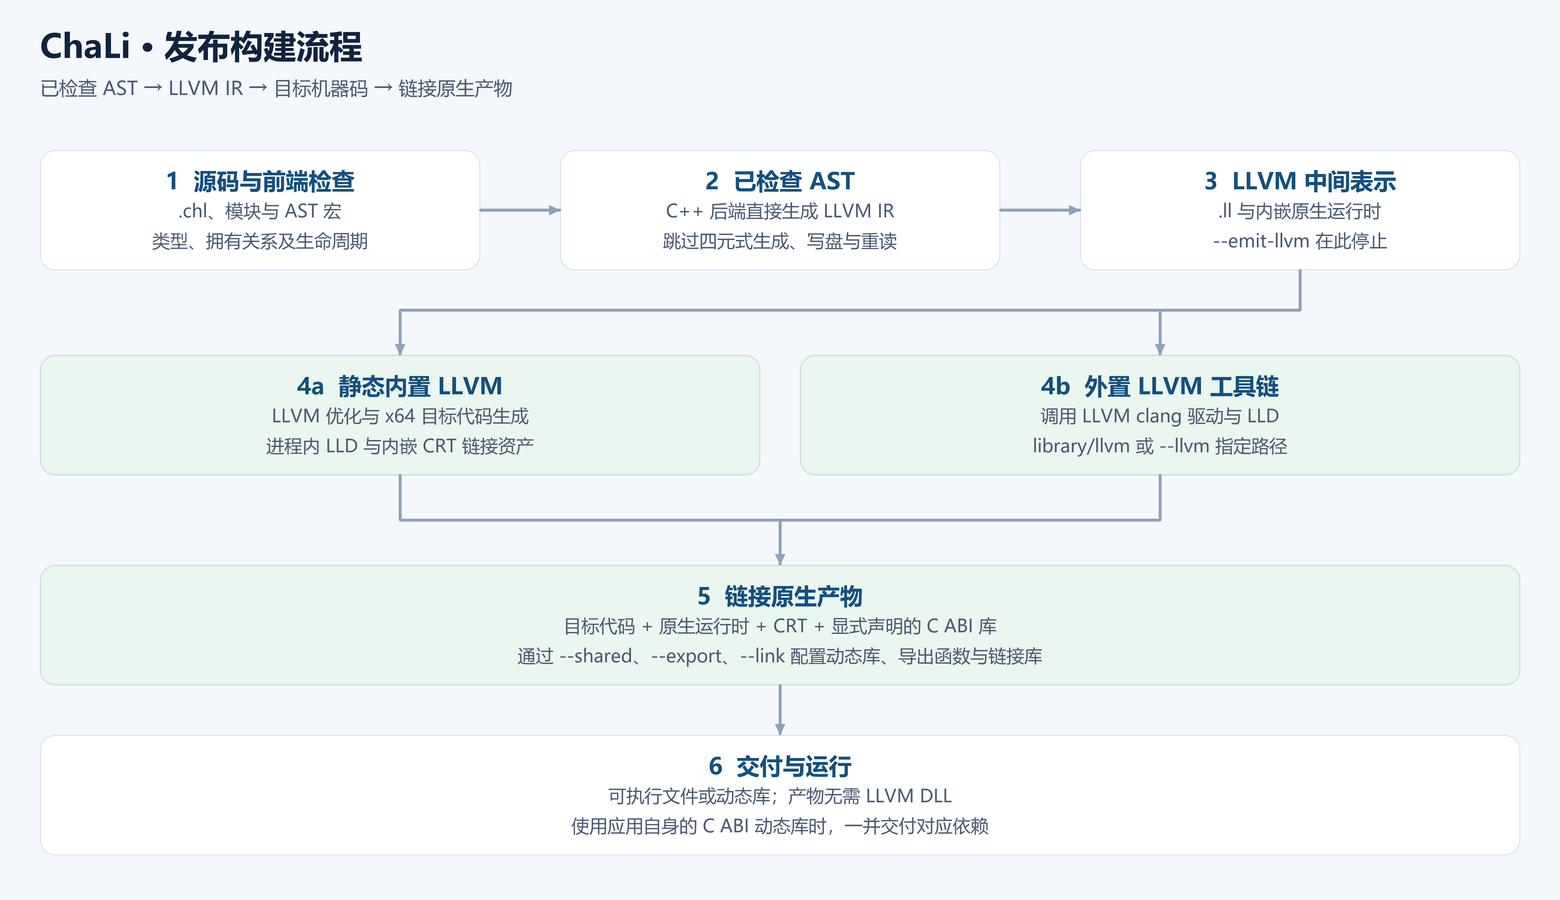
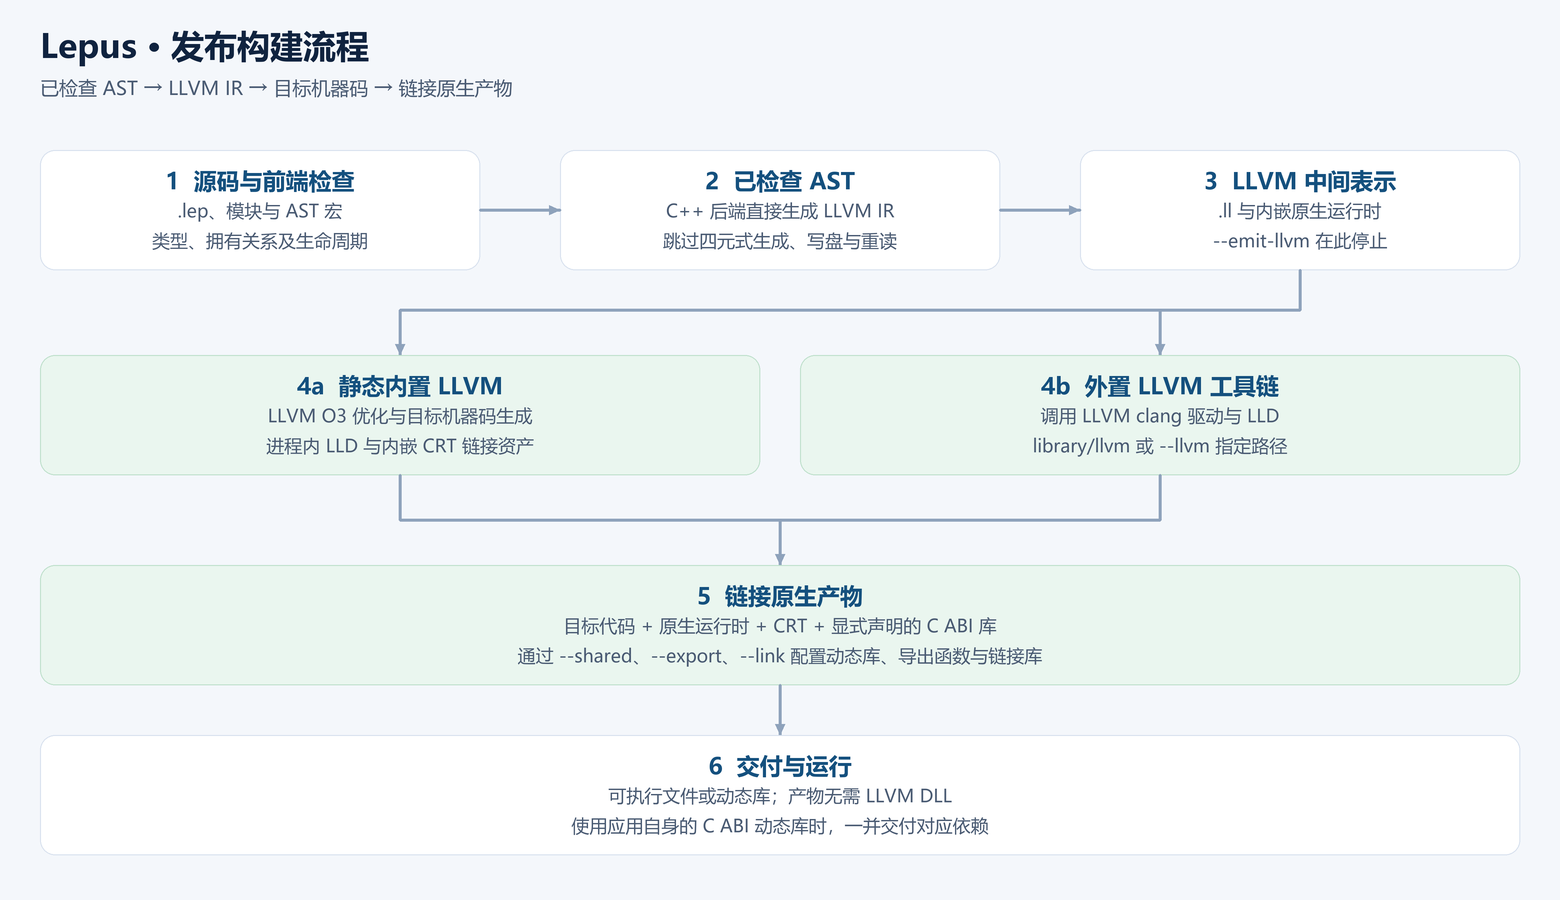
宏语法定为 $match (值) { 类别 => { ... } _ => { ... } } 与 $if (片段 is 类别)
删除之前的草案，只保留最终确定的两套写法：

- $match (值) { ident => { ... } expr => { ... } _ => { ... } }：
  分支按书写顺序尝试，_ => { ... } 是兜底。
- $if (片段 is 类别) { ... } $elif (条件) { ... } $else { ... }：
  片段 is 类别 可在编译期条件里与 &&、||、! 组合。

删除的旧写法：
- $match (值 is 类别) { ... } $else (is 类别) { ... }
- $match_other (类别)（上一轮新增，本轮并入 类别 => 分支）

实现要点：
- lepus_token.gram 移除 MACRO_MATCH_OTHER。
- lepus.gram 新增 macro_match_branch（类别 => / _ =>）；片段 is 类别
  以 %prec FN 进入 cast_expr，is 不再充当变量名，消除归约冲突。
- 新增 MNode::MacroCategoryTest 与 M_MacroCategoryTest；宏展开期由
  FoldMacroCategoryTests 把分类折叠成编译期布尔，再走原有常量求值。

工具与文档：
- VS Code 高亮、书稿 LaTeX 高亮、LSP 补全改为新写法。
- doc/04、doc/25、书稿第 22 章及英文对应页同步改写。
- 样例 macro_controls、macro_braced_templates、macro_frankenstein 改用新写法。
- 重新生成 lepus-compilation/lepus-aot 中英四张流程图，品牌与前端来源
  更正为 Lepus 与 lepus.gram，内置 LLVM 优化描述改为目标机器码。
- 重新生成内嵌书稿与标准库资产。

Changed region(s): [[0.0308, 0.0311, 0.2462, 0.0933], [0.1538, 0.4356, 0.3385, 0.4978], [0.1231, 0.2178, 0.2154, 0.2489]]

diff --git a/vscode/test/smoke.js b/vscode/test/smoke.js
@@ -111,7 +111,7 @@ function testLepusFolding() {
   check('折叠：缺右花括号也能折到末尾', half.length === 1 && half[0].end === 1);
 
   // 词面要完整，单行开合不折，多余的收尾不炸。
-  const branches = folding.planFoldingRanges(['$macro A(x) -> {', '$match (x is expr) {', '$regex (x is "x") {', '1', '}', '}', '}']);
+  const branches = folding.planFoldingRanges(['$macro A(x) -> {', '$match (x) {', '$regex (x is "x") {', '1', '}', '}', '}']);
   check('折叠：语法与正则分支嵌套', branches.length === 3 && branches[1].end === 5 && branches[2].end === 4);
   check('折叠：$match_if 不是指令', folding.planFoldingRanges(['$match_if kind', 'x', '}']).length === 0);
   check('折叠：同一行开合不折', folding.planFoldingRanges(['$macro A() -> { 1 }']).length === 0);

diff --git a/tests/lepus_macro_branches.py b/tests/lepus_macro_branches.py
@@ -15,21 +15,23 @@ def main():
     parser.add_argument("--default", action="store_true", help="使用含标准库的默认编译路径")
     options = parser.parse_args()
     compiler = options.lepus.resolve()
-    choose = '$match (A is ident) {\n11\n} $match_other (expr) {\n22\n} $match_other (type) {\n33\n} $match_other (block) {\n44\n} $match_other (stmt) {\n55\n} $else {\n66\n}'
+    choose = '$match (A) {\nident => {\n11\n}\nexpr => {\n22\n}\ntype => {\n33\n}\nblock => {\n44\n}\nstmt => {\n55\n}\n_ => {\n66\n}\n}'
     cases = [
         ("ident", choose, "notDeclared", 11),
         ("expr", choose, "1 + 2", 22),
         ("type", choose, "int64", 33),
         ("unknown_generic_type", choose, "Unknown<int64, int32, int8>", 33),
         ("lowercase_generic_type", choose, "unknown<int64>", 33),
-        ("block", '$match (A is block) {\n44\n} $else {\n0\n}', "{ int64 value = 1; }", 44),
+        ('block', '$match (A) {\nblock => {\n44\n}\n_ => {\n0\n}\n}', '{ int64 value = 1; }', 44),
         ("stmt", choose, "return 0;", 55),
         ("partial_expr", choose, "1 +", 66),
-        ("full_ident", '$match (A is ident) {\n1\n} $else {\n0\n}', "a + b", 0),
-        ("branch_order", '$match (A is expr) {\n1\n} $match_other (ident) {\n2\n}', "missing", 1),
-        ("ident_category", '$match (A is ident) {\n1\n} $match_other (expr) {\n2\n}', "a + b", 2),
-        ("inactive_semantics", '$match (A is ident) {\n1\n} $else {\nmissingFunction();\nint64 invalid = unknown;\n0\n}', "anything", 1),
-        ("inactive_closure", '$match (A is ident) {\n1\n} $else {\nlet unused = fn(int64 x) { missingFunction(); return x; };\n0\n}', "anything", 1),
+        ('full_ident', '$match (A) {\nident => {\n1\n}\n_ => {\n0\n}\n}', 'a + b', 0),
+        ('branch_order', '$match (A) {\nexpr => {\n1\n}\nident => {\n2\n}\n}', 'missing', 1),
+        ('ident_category', '$match (A) {\nident => {\n1\n}\nexpr => {\n2\n}\n}', 'a + b', 2),
+        ('inactive_semantics', '$match (A) {\nident => {\n1\n}\n_ => {\nmissingFunction();\nint64 invalid = unknown;\n0\n}\n}', 'anything', 1),
+        ('inactive_closure', '$match (A) {\nident => {\n1\n}\n_ => {\nlet unused = fn(int64 x) { missingFunction(); return x; };\n0\n}\n}', 'anything', 1),
+        ('if_category', '$if (A is ident) {\n1\n} $elif (A is expr) {\n2\n} $else {\n0\n}', '1', 2),
+        ('if_category_and_flag', '$if (A is ident && false) {\n1\n} $else {\n0\n}', '1', 0),
         ("regex_digits", '$regex (A is "[0-9]+") {\n1\n} $else {\n0\n}', "  123  ", 1),
         ("regex_full", '$regex (A is "[0-9]+") {\n1\n} $else {\n0\n}', "abc123", 0),
         ("regex_quotes", '$regex (A is "[0-9]+") {\n1\n} $else {\n0\n}', '"123"', 0),
@@ -56,10 +58,10 @@ def main():
             source = "$macro CHOOSE(A) -> {\n" + body + "\n}\nvoid main() { int64 result = $CHOOSE(" + argument + "); if (result == " + str(expected) + ") { return; } let __boom = 1 / (result - result); }"
             result = execute(name, source)
             assert result.returncode == 0 and not result.stderr, (name, result.returncode, result.stdout, result.stderr)
-        source = '$macro EMIT(A) -> {\n$match (A is stmt) {\nA;\n}\n}\nvoid main() { $EMIT(return;); }'
+        source = '$macro EMIT(A) -> {\n$match (A) {\nstmt => {\nA;\n}\n}\n}\nvoid main() { $EMIT(return;); }'
         result = execute("emit_statement", source)
         assert result.returncode == 0 and not result.stderr, result.stderr
-        source = '$macro EMPTY(A) -> {\n$match (A is stmt) {\nA;\n}\n}\nvoid main() { $EMPTY(1 +); return; }'
+        source = '$macro EMPTY(A) -> {\n$match (A) {\nstmt => {\nA;\n}\n}\n}\nvoid main() { $EMPTY(1 +); return; }'
         result = execute("no_match", source)
         assert result.returncode == 0 and not result.stderr, result.stderr
         result = execute("invalid_regex", '$macro BAD(A) -> {\n$regex (A is "[") {\n1\n} $else {\n0\n}\n}\nvoid main() { let __boom = $BAD(123); }')

diff --git a/source/semantics/macro_controls.cpp b/source/semantics/macro_controls.cpp
@@ -514,6 +514,66 @@ bool CheckMacroLoopSyntax(int id, std::size_t depth, bool inLoop, bool &ordered,
 }
 
 /**
+ * @brief 把 `$if` 条件里的 `片段 is 类别` 折叠成编译期布尔常量。
+ *
+ * 片段实参在展开期保留六类完整语法候选；这里按类别取对应候选是否成立，
+ * 结果替换为 Bool 节点，之后与普通编译期常量一起参与 `&&`、`||`、`!` 求值。
+ * @param id 条件子树根节点。
+ * @param inputs 形参名到实参节点的映射。
+ * @param depth 当前遍历深度。
+ * @param error 接收失败原因。
+ * @return 折叠成功时返回真。
+ */
+bool FoldMacroCategoryTests(int id, const std::map<std::string, int> &inputs, std::size_t depth, std::string &error)
+{
+    if (id < 0) return true;
+    if (depth >= 256)
+    {
+        error = "宏编译期条件嵌套过深";
+        return false;
+    }
+    auto &node = g_nodes[id];
+    if (node.kind == MNode::MacroCategoryTest)
+    {
+        const std::string name(node.s.data(), node.s.size());
+        const auto found = inputs.find(name);
+        if (found == inputs.end())
+        {
+            error = "宏编译期分类引用了不存在的形参：" + name;
+            return false;
+        }
+        const auto &argument = N(found->second);
+        if (argument.kind != MNode::MacroArgument || argument.kids.size() != lepus_macro::FragmentAlternativeCount)
+        {
+            error = "$if 的语法分类只能用在片段实参上：" + name;
+            return false;
+        }
+        const std::string category(node.s2.data(), node.s2.size());
+        const int index = category == "expr"    ? 0 :
+                          category == "ident"   ? 1 :
+                          category == "type"    ? 2 :
+                          category == "block"   ? 3 :
+                          category == "stmt"    ? 4 :
+                          category == "pattern" ? 5 :
+                                                  -1;
+        if (index < 0)
+        {
+            error = "不支持的宏片段分类：" + category;
+            return false;
+        }
+        node.kind = MNode::Bool;
+        node.i = argument.kids[static_cast<std::size_t>(index)] >= 0 ? 1 : 0;
+        node.s.clear();
+        node.s2.clear();
+        node.kids.clear();
+        return true;
+    }
+    for (const int child : node.kids)
+        if (!FoldMacroCategoryTests(child, inputs, depth + 1, error)) return false;
+    return true;
+}
+
+/**
  * @brief 在卫生绑定前处理字段循环、常量分支和编译期诊断，仅构造普通 AST。
  * @param root 已替换泛型类型的独立模板。
  * @param inputs 只读宏实参，条件只允许使用其中的常量表达式。
@@ -929,6 +989,7 @@ bool PrepareMacroControlsWithLocals(int root, const std::map<std::string, int> &
         if (node.kind == MNode::MacroCompileIf)
         {
             if (!visit(node.kids[0], depth + 1, true)) return false;
+            if (!FoldMacroCategoryTests(node.kids[0], activeInputs, depth, error)) return false;
             MConstant value;
             if (!EvaluateConstant(node.kids[0], &value) || value.kind != MConstant::Boolean) return Fail("$if 条件必须是编译期 bool 常量");
             const int selected = node.kids[value.integer ? 1 : 2];

diff --git a/tests/macro_parser.cpp b/tests/macro_parser.cpp
@@ -47,23 +47,21 @@ int main()
     const auto genericDefinition = M_ParsedNode(M_ParsedNode(root).kids[0]);
     const auto generics = M_ParsedNode(genericDefinition.kids[2]).kids;
     if (generics.size() != 1 || M_ParsedNode(generics[0]).kind != MNode::MacroGeneric || M_ParsedNode(generics[0]).s != "T" || M_ParsedNode(generics[0]).s2 != "a") return 12;
-    for (const char *category : { "expr", "ident", "type", "block", "stmt" })
-    {
-        const auto source = Memory::String("$macro SELECT(A) -> {\n$match (A is ") + category + ") {\n1\n} $match_other (ident) {\n2\n} $else {\n3\n}\n}\nint32 main() { return 0; }\n";
-        if (!parse(source, root)) return 13;
-        const auto &definitionNode = M_ParsedNode(M_ParsedNode(root).kids[0]);
-        const auto &templateNode = M_ParsedNode(definitionNode.kids[1]);
-        const auto &match = M_ParsedNode(M_ParsedNode(templateNode.kids[0]).kids[0]);
-        if (match.kind != MNode::MacroMatch || match.s != "A") return 14;
-        const auto branches = M_ParsedNode(match.kids[0]).kids;
-        if (branches.size() != 3 || M_ParsedNode(branches[0]).s != category || M_ParsedNode(branches[1]).s != "ident" || !M_ParsedNode(branches[2]).s.empty()) return 15;
-    }
+    // `$match` 的分支写成 `类别 => { ... }`，`_ => { ... }` 是兜底。
+    const auto matchSource = Memory::String("$macro SELECT(A) -> {\n$match (A) {\nident => {\n1\n}\nexpr => {\n2\n}\n_ => {\n3\n}\n}\n}\nint32 main() { return 0; }\n");
+    if (!parse(matchSource, root)) return 13;
+    const auto &matchDefinition = M_ParsedNode(M_ParsedNode(root).kids[0]);
+    const auto &matchTemplate = M_ParsedNode(matchDefinition.kids[1]);
+    const auto &match = M_ParsedNode(M_ParsedNode(matchTemplate.kids[0]).kids[0]);
+    if (match.kind != MNode::MacroMatch || match.s != "A") return 14;
+    const auto &matchBranches = M_ParsedNode(match.kids[0]).kids;
+    if (matchBranches.size() != 3 || M_ParsedNode(matchBranches[0]).s != "ident" || M_ParsedNode(matchBranches[1]).s != "expr" || !M_ParsedNode(matchBranches[2]).s.empty()) return 15;
     if (!parse("$macro DIGITS(A) -> {\n$regex (A is \"[0-9]+\") {\n1\n} $else {\n0\n}\n}\nint32 main() { return 0; }\n", root)) return 16;
     const auto &regexDefinition = M_ParsedNode(M_ParsedNode(root).kids[0]);
     const auto &regexTemplate = M_ParsedNode(regexDefinition.kids[1]);
     const auto &regex = M_ParsedNode(M_ParsedNode(regexTemplate.kids[0]).kids[0]);
     if (regex.kind != MNode::MacroRegex || regex.s != "A" || regex.s2 != "[0-9]+" || regex.kids[1] < 0) return 17;
-    Memory::String unknown = "$macro BAD(A) -> {\n$match (A is token) {\n1\n}\n}\n";
+    Memory::String unknown = "$macro BAD(A) -> {\n$match (A) {\ntoken => {\n1\n}\n}\n}\n";
     lepus_macro::markHeaderBoundaries(unknown);
     lepus::Engine unknownCategory;
     if (unknownCategory.runText(unknown, &root) == lepus::Status::Ok) return 18;

diff --git a/doc/book/latex/lepus_language.tex b/doc/book/latex/lepus_language.tex
@@ -4,7 +4,7 @@
   alsoletter={\$\#@\%},
   morekeywords={_,__rawAlign,__rawSize,__typeTag,break,cast,const,continue,copy,defer,drop,elif,else,enum,export,fn,for,if,impl,import,in,inline,interface,let,loop,match,module,move,mut,new,null,opcode,return,scope,static,struct,type,unsafe,while,yield},
   morekeywords=[2]{Any,Closeable,Copy,Drop,Error,Fail,List,Map,None,Ok,Option,Result,Set,String,Value,bool,char,float32,float64,int16,int32,int64,int8,self,uint16,uint32,uint64,uint8,void},
-  morekeywords=[3]{\#CopyOnly,\#MoveOnly,\#NonCopyable,\#abi,\#borrow,\#export,\#res,\#ret,\#static,$argc,$break,$compile_assert,$compile_error,$concat,$continue,$count,$elif,$else,$else_if,$fields,$file,$for,$if,$implement,$interfaces,$let,$line,$loop,$macro,$match,$match_other,$member,$methods,$module,$regex,$replace,$set,$stringify,$typecheck,$variants,$while,@annotation},
+  morekeywords=[3]{\#CopyOnly,\#MoveOnly,\#NonCopyable,\#abi,\#borrow,\#export,\#res,\#ret,\#static,$argc,$break,$compile_assert,$compile_error,$concat,$continue,$count,$elif,$else,$else_if,$fields,$file,$for,$if,$implement,$interfaces,$let,$line,$loop,$macro,$match,$member,$methods,$module,$regex,$replace,$set,$stringify,$typecheck,$variants,$while,@annotation},
   morekeywords=[4]{block,expr,false,ident,is,item,member,pattern,stmt,true,value},
   morecomment=[l]{//},
   morecomment=[s]{/*}{*/},

diff --git a/tests/lepus_macro_groups.py b/tests/lepus_macro_groups.py
@@ -21,7 +21,7 @@ def main():
         ("empty_groups", '$macro A[](){} -> {\n0\n}\nvoid main() { let __boom = $A[](){}; }', None),
         ("variadic_empty", '$macro ADD(...xs) -> {\n$for (x in xs) {\nx;\n}\n0\n}\nvoid main() { let __boom = $ADD(); }', None),
         ("for_hygiene", '$macro ADD(mut &total, ...xs) -> {\n$for (x in xs) {\nint64 temp = x; total += temp;\n}\n}\nvoid main() { int64 temp = 100; int64 total = 0; $ADD(total, 1, 2, 3); let __boom = total + temp - 106; }', None),
-        ("for_match", '$macro ADD(mut &total, ...xs) -> {\n$for (x in xs) {\n$match (x is expr) {\ntotal += x;\n}\n}\n}\nvoid main() { int64 total = 0; $ADD(total, 1, 2); let __boom = total - 3; }', None),
+        ("for_match", '$macro ADD(mut &total, ...xs) -> {\n$for (x in xs) {\n$match (x) {\nexpr => {\ntotal += x;\n}\n}\n}\n}\nvoid main() { int64 total = 0; $ADD(total, 1, 2); let __boom = total - 3; }', None),
         ("variadic_not_last", '$macro A(...xs, y) -> {\n0\n}\nvoid main() { return; }', "末尾"),
         ("for_non_variadic", '$macro A(xs) -> {\n$for (x in xs) {\nx;\n}\n}\nvoid main() { $A(1); return; }', "变长"),
         ("source_line", '$macro LINE -> {\n$line\n}\nvoid main() { let __boom = $LINE - 4; }', None),

diff --git a/source/lsp/macro_analyzer.cpp b/source/lsp/macro_analyzer.cpp
@@ -432,8 +432,7 @@ std::vector<CompletionItem> McDocument::completion(Position) const
         { "$compile_error", "function", "以常量消息中止当前宏展开", "$compile_error(\"message\")" },
         { "$line", "keyword", "当前源码行号（可在 $macro 之外用）", "$line" },
         { "$file", "keyword", "当前源码文件名（可在 $macro 之外用）", "$file" },
-        { "$match", "keyword", "完整语法片段匹配", "$match (value is expr) {\n}" },
-        { "$match_other", "keyword", "`$match` 之后的并联类别分支", "$match_other (expr) {\n}" },
+        { "$match", "keyword", "完整语法片段匹配", "$match (value) {\nexpr => {\n}\n_ => {\n}\n}" },
         { "$regex", "keyword", "原文正则完整匹配", "$regex (value is \"[0-9]+\") {\n}" },
         { "$system", "keyword", "目标操作系统名称", "$system" },
         { "$cpu", "keyword", "目标 CPU 架构名称", "$cpu" },

diff --git a/source/macro/fragments.cpp b/source/macro/fragments.cpp
@@ -247,7 +247,7 @@ bool SourceFragments::capture(Memory::String &source, std::string &error, std::s
             output.append(text, start, at - start);
             continue;
         }
-        const bool control = name == "macro" || name == "replace" || name == "match" || name == "match_other" || name == "else" || name == "elif" || name == "else_if" || name == "regex" || name == "let" || name == "for"
+        const bool control = name == "macro" || name == "replace" || name == "match" || name == "else" || name == "elif" || name == "else_if" || name == "regex" || name == "let" || name == "for"
             || name == "while" || name == "loop"
             || name == "break" || name == "continue" || name == "set" || name == "if" || name == "implement";
         if (control)

diff --git a/tools/make_pipeline_diagrams.py b/tools/make_pipeline_diagrams.py
@@ -121,7 +121,7 @@ def aot(english=False):
     arrow(c, ((1300, 270), (1300, 310), (400, 310), (400, 355)))
     arrow(c, ((1300, 310), (1160, 310), (1160, 355)))
     box(c, 40, 355, 720, "4a  Built-In LLVM" if english else "4a  静态内置 LLVM",
-        ["LLVM optimization + x64 object code" if english else "LLVM 优化与 x64 目标代码生成",
+        ["LLVM O3 optimization + target object code" if english else "LLVM O3 优化与目标机器码生成",
          "In-process LLD + embedded CRT assets" if english else "进程内 LLD 与内嵌 CRT 链接资产"], green=True)
     box(c, 800, 355, 720, "4b  External LLVM" if english else "4b  外置 LLVM 工具链",
         ["LLVM clang driver + LLD" if english else "调用 LLVM clang 驱动与 LLD",

diff --git a/source/lepus_ast.hpp b/source/lepus_ast.hpp
@@ -234,6 +234,7 @@ struct MNode
         MacroGeneric,         ///< 泛型名称及显式推导来源。
         MacroImplement,       ///< 成员宏请求宿主类型实现的接口，type 保存类型实参。
         MacroMatch,           ///< 编译期语法类别匹配。
+        MacroCategoryTest,    ///< `片段 is 类别`：在 `$if` 条件里做完整语法分类。
         MacroBranch,          ///< 语法匹配的有序候选分支。
         MacroRegex,           ///< 编译期原文正则匹配。
         MacroArgument,        ///< 同一原始实参的六类完整语法候选，保留原文及位置。

diff --git a/source/semantics/macro_ast.cpp b/source/semantics/macro_ast.cpp
@@ -434,6 +434,19 @@ int M_MacroMatch(int parameter, int branches)
 }
 
 /**
+ * @brief 创建 `片段 is 类别` 条件节点。
+ * @param parameter 片段名。
+ * @param category 类别关键字编号。
+ * @return 类别测试节点。
+ */
+int M_MacroCategoryTest(int parameter, int category)
+{
+    const int id = M_New(MNode::MacroCategoryTest, g_names[parameter]);
+    g_nodes[id].s2 = g_names[category];
+    return id;
+}
+
+/**
  * @brief 保存正则分支语法，不在解析阶段执行或展开分支。
  * @param parameter 待匹配参数名。
  * @param pattern 正则字符串的名称池编号。

diff --git a/source/macro/ast.hpp b/source/macro/ast.hpp
@@ -226,6 +226,13 @@ int M_MacroAppendBranch(int list, int branch);
  */
 int M_MacroMatch(int parameter, int branches);
 /**
+ * @brief 建立 `片段 is 类别` 条件，作为 `$if` 条件的组成项在宏展开期求值。
+ * @param parameter 片段名。
+ * @param category 类别关键字编号。
+ * @return 类别测试节点。
+ */
+int M_MacroCategoryTest(int parameter, int category);
+/**
  * @brief 建立正则匹配节点并保留尚未解码的语言字符串。
  * @param parameter 待匹配参数名。
  * @param pattern 字符串名称池编号。
